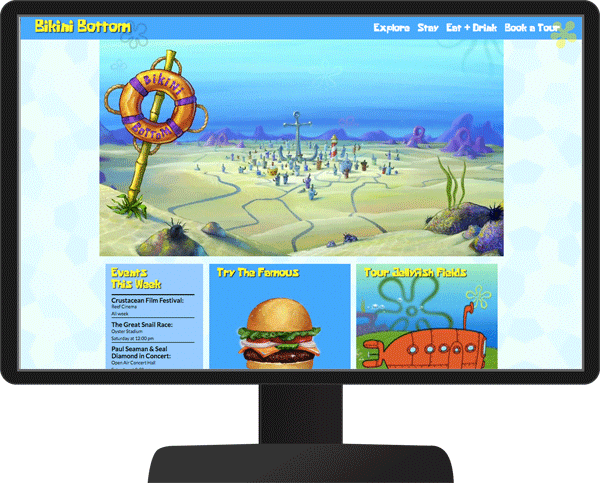
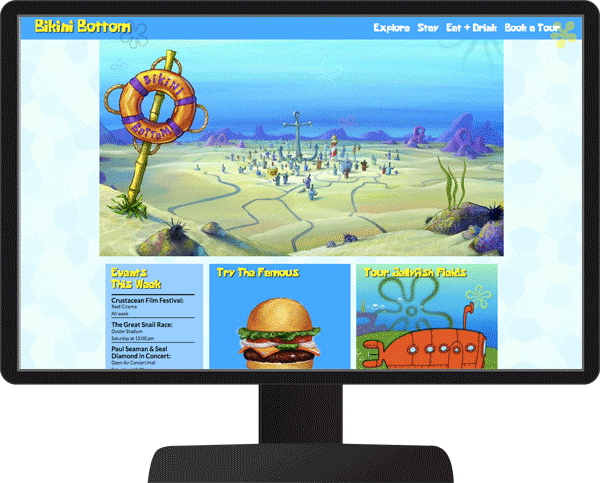
styling of main page

diff --git a/dist/css/main.css b/dist/css/main.css
@@ -97,7 +97,7 @@ body{background-color:rgba(0,0,0,.1)}
 }
 @media only screen and (min-width:800px){.main-content{margin:0 5% 40px}
 }
-@media only screen and (min-width:1400px){.main-content{max-width:1400px;margin-left:auto;margin-right:auto}
+@media only screen and (min-width:1200px){.main-content{max-width:1200px;margin-left:auto;margin-right:auto}
 }
 header{background-color:#303435;box-shadow:2px 5px 10px #888;padding:50px 0 10px;height:180px}
 header h1{font-size:2em;margin-bottom:-10px}
@@ -128,6 +128,10 @@ header .menu-text{font-size:1.6em}
 @media only screen and (min-width:500px){.main-content{padding:15px 2% 10px}
 .slider-header .smalltitle{-ms-flex:3;flex:3;font-size:180%}
 .slider-header .btn-project{-ms-flex:1.2;flex:1.2;font-size:130%}
+}
+@media only screen and (min-width:800px){.secondary-slider{display:-ms-flexbox;display:flex}
+.secondary-slider .slider-header .smalltitle{-ms-flex:1 1 60%;flex:1 1 60%;font-size:120%}
+.secondary-slider .slider-header .btn-project{-ms-flex:1 1 40%;flex:1 1 40%;font-size:100%}
 }
 .project-wrapper{padding:10px 2%}
 .project-wrapper h2{font-size:2em;margin-top:20px;text-align:left}
@@ -175,14 +179,16 @@ header .menu-text{font-size:1.6em}
 .blog-post p{font-weight:light}
 @media only screen and (min-width:660px){.blog-wrapper{margin:0 20%}
 }
-.about .about-content{margin:10px 2% 0}
-.about .about-content h3{margin:10px 0 5px;border-bottom:2px solid #000}
-.about .about-content ul{font-weight:700;margin:10px 0}
-.about .about-content .child-list{font-weight:400;list-style-type:circle;margin:5px 0 5px 40px}
-.about .about-content .btn-project{width:50%;float:left}
+@media only screen and (min-width:800px){.blog-wrapper{margin:0 34%}
+}
+.about-content{margin:10px 2% 0}
+.about-content h3{margin:10px 0 5px;border-bottom:2px solid #000}
+.about-content ul{font-weight:700;margin:10px 0}
+.about-content .child-list{font-weight:400;list-style-type:circle;margin:5px 0 5px 40px}
+.about-content .btn-project{width:50%;float:left}
 @media only screen and (min-width:800px){.about img{float:left;width:38%;margin:20px 10px 0 0}
-.about-content{float:left;width:55%;padding-top:20px}
-.btn-project{width:75%;float:left}
+.about .about-content{float:left;width:55%;padding-top:20px}
+.about .btn-project{width:75%;float:left}
 }
 @media only screen and (min-width:1000px){.about img{width:34%}
 .about-content{float:left;width:59%;padding-top:20px}

diff --git a/dirtbagger.html b/dirtbagger.html
@@ -9,8 +9,8 @@
 	<meta name="viewport" content="width=device-width; initial-scale=1.0">
 
 	<link rel="stylesheet" type="text/css" href="dist/css/main.css">
-	<link rel="shortcut icon" href="/favicon.ico">
-	<link rel="apple-touch-icon" href="/apple-touch-icon.png">
+	<link rel="shortcut icon" href="favicon.ico">
+	<link rel="apple-touch-icon" href="apple-touch-icon.png">
 </head>
 <body>
 
@@ -44,9 +44,9 @@
 		<section class="project-wrapper">
 			
 			<div class="project-header">
-				<img class="computer" src="images/dirtbagger-computer-view.png">
-				<img class="tablet" src="images/dirtbagger-tablet-view.png">
-				<img class="phone" src="images/dirtbagger-phone-view.png">
+				<img class="computer" src="images/dirtbagger-computer-view.gif">
+				<img class="tablet" src="images/dirtbagger-tablet-view.gif">
+				<img class="phone" src="images/dirtbagger-phone-view.gif">
 			</div>
 			
 			<div class="details-header">
@@ -65,8 +65,8 @@
 			</ul>
 
 			<nav class="project-navigation">
-				<a class="btn-left" href='#'><i class="icon-left-open"></i></a>
-				<a class="btn-right" href='#'><i class="icon-right-open"></i></a>
+				<a class="btn-left" href='bikini-bottom.html'><i class="icon-left-open"></i></a>
+				<a class="btn-right" href='dasmyjam.html'><i class="icon-right-open"></i></a>
 			</nav>
 
 		</section> <!-- end of project wrapper -->

diff --git a/dasmyjam.html b/dasmyjam.html
@@ -9,8 +9,8 @@
 	<meta name="viewport" content="width=device-width; initial-scale=1.0">
 
 	<link rel="stylesheet" type="text/css" href="dist/css/main.css">
-	<link rel="shortcut icon" href="/favicon.ico">
-	<link rel="apple-touch-icon" href="/apple-touch-icon.png">
+	<link rel="shortcut icon" href="favicon.ico">
+	<link rel="apple-touch-icon" href="apple-touch-icon.png">
 </head>
 <body>
 
@@ -44,9 +44,9 @@
 		<section class="project-wrapper">
 			
 			<div class="project-header">
-				<img class="computer" src="images/dasmyjam-computer-view.png">
-				<img class="tablet" src="images/dasmyjam-tablet-view.png">
-				<img class="phone" src="images/dasmyjam-phone-view.png">
+				<img class="computer" src="images/dasmyjam-computer-view.gif">
+				<img class="tablet" src="images/dasmyjam-tablet-view.gif">
+				<img class="phone" src="images/dasmyjam-phone-view.gif">
 			</div>
 			
 			<div class="details-header">
@@ -65,8 +65,8 @@
 			</ul>
 
 			<nav class="project-navigation">
-				<a class="btn-left" href='#'><i class="icon-left-open"></i></a>
-				<a class="btn-right" href='#'><i class="icon-right-open"></i></a>
+				<a class="btn-left" href='dirtbagger.html'><i class="icon-left-open"></i></a>
+				<a class="btn-right" href='bikini-bottom.html'><i class="icon-right-open"></i></a>
 			</nav>
 
 		</section> <!-- end of project wrapper -->

diff --git a/bikini-bottom.html b/bikini-bottom.html
@@ -9,8 +9,8 @@
 	<meta name="viewport" content="width=device-width; initial-scale=1.0">
 
 	<link rel="stylesheet" type="text/css" href="dist/css/main.css">
-	<link rel="shortcut icon" href="/favicon.ico">
-	<link rel="apple-touch-icon" href="/apple-touch-icon.png">
+	<link rel="shortcut icon" href="favicon.ico">
+	<link rel="apple-touch-icon" href="apple-touch-icon.png">
 </head>
 <body>
 
@@ -44,9 +44,9 @@
 		<section class="project-wrapper">
 			
 			<div class="project-header">
-				<img class="computer" src="images/bikini-bottom-computer-view.png">
-				<img class="tablet" src="images/bikini-bottom-tablet-view.png">
-				<img class="phone" src="images/bikini-bottom-phone-view.png">
+				<img class="computer" src="images/bikini-bottom-computer-view.gif">
+				<img class="tablet" src="images/bikini-bottom-tablet-view.gif">
+				<img class="phone" src="images/bikini-bottom-phone-view.gif">
 			</div>
 			
 			<div class="details-header">
@@ -65,7 +65,7 @@
 
 			<nav class="project-navigation">
 				<a class="btn-left" href='dasmyjam.html'><i class="icon-left-open"></i></a>
-				<a class="btn-right" href='jquerytutorial.html'><i class="icon-right-open"></i></a>
+				<a class="btn-right" href='dirtbagger.html'><i class="icon-right-open"></i></a>
 			</nav>
 
 		</section> <!-- end of project wrapper -->

diff --git a/src/sass/main.scss b/src/sass/main.scss
@@ -34,7 +34,7 @@
 
  @media #{$max-width} {
  	.main-content {
- 		max-width: 1400px;
+ 		max-width: 1200px;
  		margin-left: auto;
  		margin-right: auto;
  	}
@@ -193,6 +193,25 @@ header {
 		    font-size: 130%;
 		}
 	}
+}
+
+@media #{$eight-up} {
+	.secondary-slider {
+		display: flex;
+			.slider-header {
+				.smalltitle {
+					flex: 1 1 60%;
+					font-size: 120%
+		}
+		.btn-project {
+		    flex: 1 1 40%;
+		    font-size: 100%;
+		}
+	}
+
+
+
+	}
 
 }
 
@@ -297,8 +316,7 @@ header {
 			right: 1%;
 			width: 200px;
 		}
-}
-
+	}
 }
 
 @media #{$eight-up} {
@@ -406,11 +424,17 @@ header {
 
 }
 
+@media #{$eight-up} {
+	
+	.blog-wrapper {
+		margin: 0 34%;
+	}
+
+}
+
 /* ====================================================================================================================
 * 	ABOUT PAGE
 * ==================================================================================================================== */
-
-.about
 
 .about-content {
 	margin: 10px 2% 0 2%;
@@ -434,7 +458,8 @@ header {
 	}
 
 @media #{$eight-up} {
-	.about img {
+	.about {
+	 img {
 		float: left;
 		width: 38%;
 		margin: 20px 10px 0 0;
@@ -448,6 +473,8 @@ header {
 		width: 75%;
 		float: left;
 	}
+
+}
 
 }
 

diff --git a/src/sass/_variables.scss b/src/sass/_variables.scss
@@ -31,7 +31,7 @@ $small: 480px;
 $desktop-up: "only screen and (max-width: 700px)";
 $phone-up: "only screen and (min-width: 500px)";
 $eight-up:   "only screen and (min-width: 800px)";
-$max-width:   "only screen and (min-width: 1400px)";
+$max-width:   "only screen and (min-width: 1200px)";
 $six-sixty:   "only screen and (min-width: 660px)";
 $one-thousand:   "only screen and (min-width: 1000px)";
 $thirteen-thirty:   "only screen and (min-width: 1330px)";

diff --git a/about.html b/about.html
@@ -9,8 +9,8 @@
 	<meta name="viewport" content="width=device-width; initial-scale=1.0">
 
 	<link rel="stylesheet" type="text/css" href="dist/css/main.css">
-	<link rel="shortcut icon" href="/favicon.ico">
-	<link rel="apple-touch-icon" href="/apple-touch-icon.png">
+	<link rel="shortcut icon" href="favicon.ico">
+	<link rel="apple-touch-icon" href="apple-touch-icon.png">
 </head>
 <body>
 

diff --git a/blog.html b/blog.html
@@ -9,8 +9,8 @@
 	<meta name="viewport" content="width=device-width; initial-scale=1.0">
 
 	<link rel="stylesheet" type="text/css" href="dist/css/main.css">
-	<link rel="shortcut icon" href="/favicon.ico">
-	<link rel="apple-touch-icon" href="/apple-touch-icon.png">
+	<link rel="shortcut icon" href="favicon.ico">
+	<link rel="apple-touch-icon" href="apple-touch-icon.png">
 </head>
 <body>
 

diff --git a/index.html b/index.html
@@ -9,8 +9,8 @@
 	<meta name="viewport" content="width=device-width; initial-scale=1.0">
 
 	<link rel="stylesheet" type="text/css" href="dist/css/main.css">
-	<link rel="shortcut icon" href="/favicon.ico">
-	<link rel="apple-touch-icon" href="/apple-touch-icon.png">
+	<link rel="shortcut icon" href="favicon.ico">
+	<link rel="apple-touch-icon" href="apple-touch-icon.png">
 </head>
 <body>
 

diff --git a/sanluis.html b/sanluis.html
@@ -9,8 +9,8 @@
 	<meta name="viewport" content="width=device-width; initial-scale=1.0">
 
 	<link rel="stylesheet" type="text/css" href="dist/css/main.css">
-	<link rel="shortcut icon" href="/favicon.ico">
-	<link rel="apple-touch-icon" href="/apple-touch-icon.png">
+	<link rel="shortcut icon" href="favicon.ico">
+	<link rel="apple-touch-icon" href="apple-touch-icon.png">
 </head>
 <body>
 
